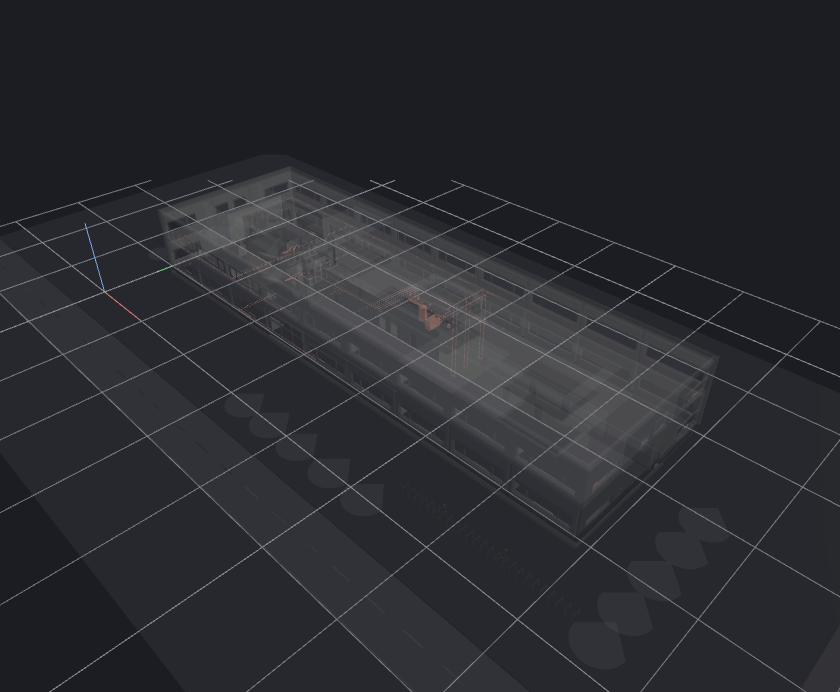
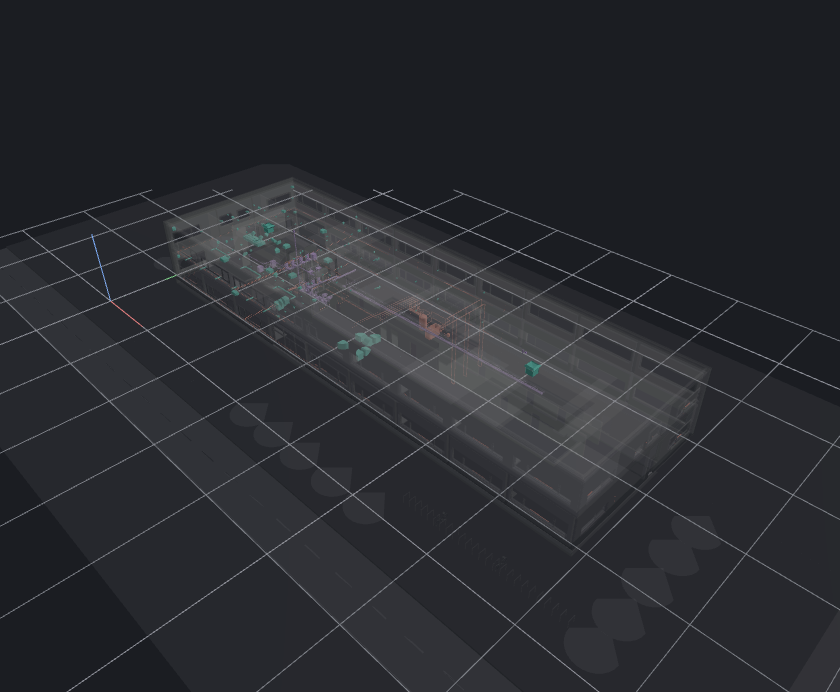
Public buildings: open each federated building as one union file, coloured by source document
digitalhub-federated.bos and duplex-federated.bos (bim-open-data b4c7e3f) now carry geometry
for all four source models, so DigitalHub's ventilation (teal) and plumbing (violet) models
are drawn. Objects are coloured by the Document column of Entities; architecture stays
ghosted. Drops the DigitalHub omitted note and keeps the Duplex note on shared GlobalIds.

diff --git a/packages/demos/src/demos/public-buildings/index.ts b/packages/demos/src/demos/public-buildings/index.ts
@@ -1,13 +1,13 @@
 // Public buildings: three openly licensed real buildings, each drawn with every discipline model
 // that has geometry, and an element read back by clicking it.
 //
-// A fixture opens the building's first model; `start` opens the rest into the same scene. Every
-// model is loaded under its own model id, because a BOS load names every model "model" and two
-// models with one id would share object keys, and a click on the heating model would read an
-// architecture object.
+// A fixture opens the building's first file; `start` opens the rest into the same scene. Every
+// file is loaded under its own model id, because a BOS load names every model "model" and two
+// models with one id would share object keys. A federated building is one file holding several
+// source models, told apart by each entity's `Document`; they are drawn and named by document.
 
 import { appearanceFeature, editsFeature, setsFeature, setsSlice } from '@bim-open-viewer/features';
-import { loadModel } from '@bim-open-viewer/formats';
+import { documentOfObject, loadModel } from '@bim-open-viewer/formats';
 import {
   diagnostic,
   disposable,
@@ -37,13 +37,14 @@ import {
 import type { DemoReport } from '../../feature-demos/_shared/protocol.js';
 import type { Demo, DemoFixture, GalleryViewer, ModelSource, OpenedModel } from '../../gallery/contracts.js';
 import { galleryLoadOptions } from '../../gallery/model-source.js';
-import { inspectIndexOf, storeyOfObject, type InspectIndex } from '../point-and-read/building.js';
+import { inspectIndexOf, noModelDocuments, storeyOfObject, type InspectIndex } from '../point-and-read/building.js';
 import { propertyGroupsOf } from '../point-and-read/inspector.js';
 import {
   publicBuildings,
   publicSamplesCommit,
   publicSamplesNotice,
   publicSamplesPath,
+  type DisciplineColour,
   type PublicBuilding,
   type PublicModel,
 } from './buildings.js';
@@ -82,7 +83,7 @@ const fixtureOf = (building: PublicBuilding): DemoFixture => ({
 
 export const publicBuildingFixtures: readonly DemoFixture[] = publicBuildings.map(fixtureOf);
 
-// One open discipline model and the lookups the sheet reads.
+// One open file and the lookups the sheet reads.
 type HeldModel = { readonly model: PublicModel; readonly opened: OpenedModel; readonly index: InspectIndex };
 
 // What the demo has open. Module state, like point-and-read's index, because the sheet is a pure
@@ -114,34 +115,80 @@ const ruleId = (name: string): string => `public-buildings/${name}`;
 const drawnKeys = (one: HeldModel): readonly ObjectKey[] =>
   one.opened.data.objects.flatMap((record, row) => (record.representation === undefined ? [] : [one.opened.keys[row] ?? '']));
 
+// One discipline as drawn: a whole single-discipline file, or one source model of a federated file.
+type Part = {
+  readonly id: string;
+  readonly discipline: string;
+  readonly colour: DisciplineColour | undefined;
+  readonly model: HeldModel;
+  // How many objects the part has, and the keys of those that draw something.
+  readonly objects: number;
+  readonly keys: readonly ObjectKey[];
+};
+
+// The title of the source document an object row came from, when the file names one.
+const documentTitleOf = (one: HeldModel, row: number): string | undefined => {
+  const documents = one.opened.documents ?? noModelDocuments;
+  const document = documentOfObject(documents, row);
+  return document < 0 ? undefined : documents.title[document];
+};
+
+// The parts of one open file. A file with no parts is one part; a federated file is one part per
+// listed document, and an object whose document is not listed belongs to none.
+const partsOfModel = (one: HeldModel): readonly Part[] => {
+  if (one.model.parts === undefined)
+    return [
+      {
+        id: one.model.file,
+        discipline: one.model.discipline,
+        colour: one.model.colour,
+        model: one,
+        objects: one.opened.data.objects.length,
+        keys: drawnKeys(one),
+      },
+    ];
+  return one.model.parts.map((part) => {
+    const rows = one.opened.data.objects.flatMap((_record, row) => (documentTitleOf(one, row) === part.document ? [row] : []));
+    return {
+      id: `${one.model.file}#${part.document}`,
+      discipline: part.discipline,
+      colour: part.colour,
+      model: one,
+      objects: rows.length,
+      keys: rows.flatMap((row) => (one.opened.data.objects[row]?.representation === undefined ? [] : [one.opened.keys[row] ?? ''])),
+    };
+  });
+};
+
+const partsOf = (now: Held): readonly Part[] => now.models.flatMap(partsOfModel);
+
 // How the building is drawn: spaces hidden, because their volumes enclose every room and hide what
-// is in it; each coloured discipline in its colour; and, when there is more than one model, the
-// architecture ghosted so the systems inside it show.
+// is in it; each coloured discipline in its colour; and, when there is more than one discipline,
+// the uncoloured one, the architecture, ghosted so the systems inside it show.
 export const publicBuildingRules = (now: Held): readonly StyleRule[] => {
   const spaces = now.models.flatMap((one) =>
     drawnKeys(one).filter((key) => one.index.records.get(key)?.category === 'IFCSPACE'),
   );
-  const first = now.models[0];
+  const parts = partsOf(now);
   return [
     styleRule(ruleId('spaces'), 'Spaces hidden', spaces, { visible: false }, 10),
-    ...(first !== undefined && now.models.length > 1
-      ? [styleRule(ruleId('ghost'), `${first.model.discipline} ghosted`, drawnKeys(first), { opacity: ghostOpacity }, 5)]
-      : []),
-    ...now.models.flatMap((one) =>
-      one.model.colour === undefined
-        ? []
-        : [styleRule(ruleId(one.model.file), `${one.model.discipline} in ${one.model.colour.name}`, drawnKeys(one), { color: one.model.colour.rgb }, 5)],
-    ),
+    ...parts.flatMap((part) => {
+      if (part.colour !== undefined)
+        return [styleRule(ruleId(part.id), `${part.discipline} in ${part.colour.name}`, part.keys, { color: part.colour.rgb }, 5)];
+      return parts.length > 1
+        ? [styleRule(ruleId(`ghost-${part.id}`), `${part.discipline} ghosted`, part.keys, { opacity: ghostOpacity }, 5)]
+        : [];
+    }),
   ];
 };
 
 // The box the coloured disciplines occupy, which is what the camera frames when there are any: the
 // whole site of a federated building puts its systems too far away to see.
 export const colouredBounds = (now: Held): Bounds | undefined => {
-  const box = now.models
-    .filter((one) => one.model.colour !== undefined)
-    .flatMap((one) => drawnKeys(one).flatMap((key) => {
-      const found = one.index.bounds.get(key);
+  const box = partsOf(now)
+    .filter((part) => part.colour !== undefined)
+    .flatMap((part) => part.keys.flatMap((key) => {
+      const found = part.model.index.bounds.get(key);
       return found === undefined ? [] : [found];
     }))
     .reduce(unionBounds, emptyBounds);
@@ -201,11 +248,11 @@ const pickedOf = (session: Session): { readonly key: ObjectKey; readonly in: Hel
   return key === undefined || found === undefined ? undefined : { key, in: found };
 };
 
-// What the sheet says about one model: its size and how it is drawn.
-const drawnAs = (now: Held, one: HeldModel): string => {
-  const objects = `${String(one.opened.data.objects.length)} objects`;
-  if (one.model.colour !== undefined) return `${objects}, drawn in ${one.model.colour.name}`;
-  return now.models.length > 1 && one === now.models[0] ? `${objects}, ghosted` : objects;
+// What the sheet says about one part: its size and how it is drawn.
+const drawnAs = (parts: readonly Part[], part: Part): string => {
+  const objects = `${String(part.objects)} objects`;
+  if (part.colour !== undefined) return `${objects}, drawn in ${part.colour.name}`;
+  return parts.length > 1 ? `${objects}, ghosted` : objects;
 };
 
 const buildingGroup = (now: Held): PropertyGroup =>
@@ -215,12 +262,19 @@ const buildingGroup = (now: Held): PropertyGroup =>
     propertyRow('licence', 'Licence', knownValue(now.building.licence.name)),
     propertyRow('notice', 'Notice', knownValue(`${publicSamplesPath}${publicSamplesNotice}`)),
     propertyRow('source', 'Source IFC files', knownValue(now.building.upstream)),
-    ...now.models.map((one) =>
-      propertyRow(`model-${one.model.file}`, one.model.discipline, knownValue(drawnAs(now, one), one.model.file)),
+    ...partsOf(now).map((part, _row, parts) =>
+      propertyRow(`model-${part.id}`, part.discipline, knownValue(drawnAs(parts, part), part.model.model.file)),
     ),
     propertyRow('spaces', 'Spaces', knownValue('hidden: their volumes enclose the rooms')),
     ...(now.building.omitted === undefined ? [] : [propertyRow('omitted', 'Not drawn', knownValue(now.building.omitted))]),
   ]);
+
+// The discipline of the picked object: its source model's when the file is federated.
+const disciplineOf = (one: HeldModel, key: ObjectKey): string => {
+  const row = one.index.rowOf.get(key) ?? -1;
+  const title = documentTitleOf(one, row);
+  return one.model.parts?.find((part) => part.document === title)?.discipline ?? one.model.discipline;
+};
 
 const pickedGroups = (session: Session): readonly PropertyGroup[] => {
   const picked = pickedOf(session);
@@ -237,7 +291,7 @@ const pickedGroups = (session: Session): readonly PropertyGroup[] => {
         'Category',
         record?.category === undefined ? missingValue('the file records no category') : knownValue(record.category),
       ),
-      propertyRow('model', 'Model', knownValue(picked.in.model.discipline, picked.in.model.file)),
+      propertyRow('model', 'Model', knownValue(disciplineOf(picked.in, picked.key), picked.in.model.file)),
       propertyRow('storey', 'Storey', storey?.name === undefined ? missingValue('nothing links it to a storey') : knownValue(storey.name)),
     ]),
     ...propertyGroupsOf(index, picked.key),

diff --git a/packages/demos/src/demos/public-buildings/buildings.ts b/packages/demos/src/demos/public-buildings/buildings.ts
@@ -10,7 +10,7 @@
 // it too, to know which files to fetch.
 
 // The bim-open-data commit the files are read at.
-export const publicSamplesCommit = 'eb7ec1967cdef74874cffefdbe6788ff42577a2a';
+export const publicSamplesCommit = 'b4c7e3f3033706a15517b471b50eb32731ea584b';
 
 // Where the files are fetched from.
 export const publicSamplesOrigin = `https://raw.githubusercontent.com/ara3d/bim-open-data/${publicSamplesCommit}/samples/public/`;
@@ -27,13 +27,26 @@ export type DisciplineColour = { readonly name: string; readonly rgb: readonly [
 const red: DisciplineColour = { name: 'red', rgb: [0.86, 0.3, 0.24] };
 const blue: DisciplineColour = { name: 'blue', rgb: [0.22, 0.5, 0.86] };
 const amber: DisciplineColour = { name: 'amber', rgb: [0.95, 0.68, 0.16] };
+const teal: DisciplineColour = { name: 'teal', rgb: [0.16, 0.68, 0.58] };
+const violet: DisciplineColour = { name: 'violet', rgb: [0.6, 0.42, 0.84] };
 
-// One discipline model of a building: a `.bos` file with its geometry. A model with a colour is
-// drawn in it; one without keeps the colours the file records.
+// One source model inside a federated file, named by its title in the file's `Documents` table
+// (the `Document` column of `Entities` says which one each entity came from). A part with a colour
+// is drawn in it; one without keeps the colours the file records.
+export type PublicPart = {
+  readonly document: string;
+  readonly discipline: string;
+  readonly colour?: DisciplineColour | undefined;
+};
+
+// One `.bos` file of a building, with its geometry. A file with `parts` is a federated union and is
+// drawn part by part, by source model; one without is a single discipline, drawn in `colour` when it
+// has one and in the colours the file records when it has none.
 export type PublicModel = {
   readonly file: string;
   readonly discipline: string;
   readonly colour?: DisciplineColour | undefined;
+  readonly parts?: readonly PublicPart[] | undefined;
 };
 
 export type PublicBuilding = {
@@ -41,7 +54,7 @@ export type PublicBuilding = {
   readonly title: string;
   // One sentence for the landing page card and the inspector.
   readonly summary: string;
-  // Drawn together, in this order, in one scene.
+  // Drawn together, in this order, in one scene. A federated building is one union file.
   readonly models: readonly PublicModel[];
   // The credit line the licence asks for, from bim-open-data's samples/public/NOTICE.md.
   readonly attribution: string;
@@ -59,41 +72,54 @@ export const publicBuildings: readonly PublicBuilding[] = [
     summary: 'A ten-apartment block: the Archicad design model, with 6 storeys, 205 doors, and 259 windows.',
     models: [{ file: 'schependomlaan.bos', discipline: 'Architecture' }],
     attribution:
-      'Schependomlaan dataset, (C) original owners, licensed CC BY 4.0; converted to BIM Open Schema tables by Ara 3D.',
+      'Schependomlaan dataset, (C) original owners, licensed CC BY 4.0, https://creativecommons.org/licenses/by/4.0/; converted to BIM Open Schema tables by Ara 3D.',
     licence: { name: 'CC BY 4.0', url: 'https://creativecommons.org/licenses/by/4.0/' },
     upstream: 'https://github.com/openBIMstandards/Archive-DataSetSchependomlaan',
   },
   {
     id: 'digitalhub',
     title: 'DigitalHub, federated',
-    summary: 'An office building of RWTH Aachen University: the architecture and heating models drawn together.',
+    summary:
+      'An office building of RWTH Aachen University: the architecture, heating, ventilation, and plumbing models drawn together.',
     models: [
-      { file: 'digitalhub-arc.bos', discipline: 'Architecture' },
-      { file: 'digitalhub-hzg.bos', discipline: 'Heating', colour: red },
+      {
+        file: 'digitalhub-federated.bos',
+        discipline: 'Federated',
+        parts: [
+          { document: 'DigitalHub_FM-ARC_v2', discipline: 'Architecture' },
+          { document: 'DigitalHub_FM-HZG_v2', discipline: 'Heating', colour: red },
+          { document: 'DigitalHub_FM-LFT_v2', discipline: 'Ventilation', colour: teal },
+          { document: 'DigitalHub_FM-SAN_v2', discipline: 'Plumbing', colour: violet },
+        ],
+      },
     ],
     attribution:
       'DigitalHub, Copyright (c) 2020 RWTH Aachen University - E3D Institute of Energy Efficiency and Sustainable Building, MIT License; converted to BIM Open Schema tables by Ara 3D.',
     licence: { name: 'MIT', url: 'https://github.com/RWTH-E3D/DigitalHub/blob/master/LICENSE' },
     upstream: 'https://github.com/RWTH-E3D/DigitalHub',
-    omitted:
-      'The ventilation and plumbing models are in bim-open-data only inside the geometry-free federated union, so they are not drawn.',
   },
   {
     id: 'duplex',
     title: 'Duplex Apartment, federated',
     summary: 'A two-unit house: the architecture, MEP, electrical, and rooms models drawn together.',
     models: [
-      { file: 'duplex.bos', discipline: 'Architecture' },
-      { file: 'duplex-mep.bos', discipline: 'MEP', colour: blue },
-      { file: 'duplex-electrical.bos', discipline: 'Electrical', colour: amber },
-      { file: 'duplex-rooms.bos', discipline: 'Rooms and heating', colour: red },
+      {
+        file: 'duplex-federated.bos',
+        discipline: 'Federated',
+        parts: [
+          { document: 'Duplex_A_20110907', discipline: 'Architecture' },
+          { document: 'Duplex_MEP_20110907', discipline: 'MEP', colour: blue },
+          { document: 'Duplex_Electrical_20121207', discipline: 'Electrical', colour: amber },
+          { document: 'Duplex_M_20111024_ROOMS_AND_SPACES', discipline: 'Rooms and heating', colour: red },
+        ],
+      },
     ],
     attribution:
-      'BSI (2020) Duplex Apartment Test Files, buildingSMART International. (C) original authors, licensed CC BY 4.0; converted to BIM Open Schema tables by Ara 3D.',
+      'BSI (2020) Duplex Apartment Test Files, buildingSMART International. (C) original authors, licensed CC BY 4.0, https://creativecommons.org/licenses/by/4.0/; converted to BIM Open Schema tables by Ara 3D.',
     licence: { name: 'CC BY 4.0', url: 'https://creativecommons.org/licenses/by/4.0/' },
     upstream: 'https://github.com/buildingsmart-community/Community-Sample-Test-Files',
     omitted:
-      'The electrical and rooms models repeat 104 and 344 elements of the MEP model, so those elements are drawn twice.',
+      'Shared elements, 448 GlobalIds that appear in more than one model, are drawn once for each model that holds them, so they are drawn twice.',
   },
 ];
 

diff --git a/README.md b/README.md
@@ -110,7 +110,7 @@ other demos open a generated building from `@bim-open-viewer/synthetic`.
 | Building | Models drawn together | Licence |
 |---|---|---|
 | Schependomlaan, a ten-apartment block | architecture (one Archicad design model) | CC BY 4.0, (C) original owners |
-| DigitalHub, an office building of RWTH Aachen University | architecture, and heating in red | MIT, (c) 2020 RWTH Aachen University, E3D |
+| DigitalHub, an office building of RWTH Aachen University | architecture, heating in red, ventilation in teal, plumbing in violet | MIT, (c) 2020 RWTH Aachen University, E3D |
 | Duplex Apartment, a two-unit house | architecture, MEP in blue, electrical in amber, rooms and heating in red | CC BY 4.0, BSI (2020), buildingSMART International |
 
 Each building is the `public-buildings` demo on one fixture
@@ -120,12 +120,13 @@ three because their volumes enclose the rooms. Clicking an element reads its nam
 model, storey and property sets in the inspector. The page shows each building's credit line under
 the viewport and on its landing-page card.
 
-DigitalHub's ventilation and plumbing models are not drawn: bim-open-data has them only inside a
-federated archive with no geometry. The Duplex's electrical and rooms models repeat 104 and 344
-elements of its MEP model, so those elements are drawn twice.
+DigitalHub and the Duplex are each one federated file (`digitalhub-federated.bos`,
+`duplex-federated.bos`) holding four source models with their geometry. The demo colours each
+object by the `Document` column of `Entities`, which names its source model. In the Duplex, 448
+GlobalIds appear in more than one model, so those elements are drawn twice.
 
 The files are BIM Open Schema archives from
-[ara3d/bim-open-data](https://github.com/ara3d/bim-open-data/tree/main/samples/public), 3.3 MB in
+[ara3d/bim-open-data](https://github.com/ara3d/bim-open-data/tree/main/samples/public), 6.6 MB in
 all, and are not committed here. `packages/demos/src/demos/public-buildings/buildings.ts` lists
 them and pins the bim-open-data commit they are read at; `npm run pages` downloads them from
 raw.githubusercontent.com into `artifacts/public-samples/<commit>/` (git-ignored) and copies them,
